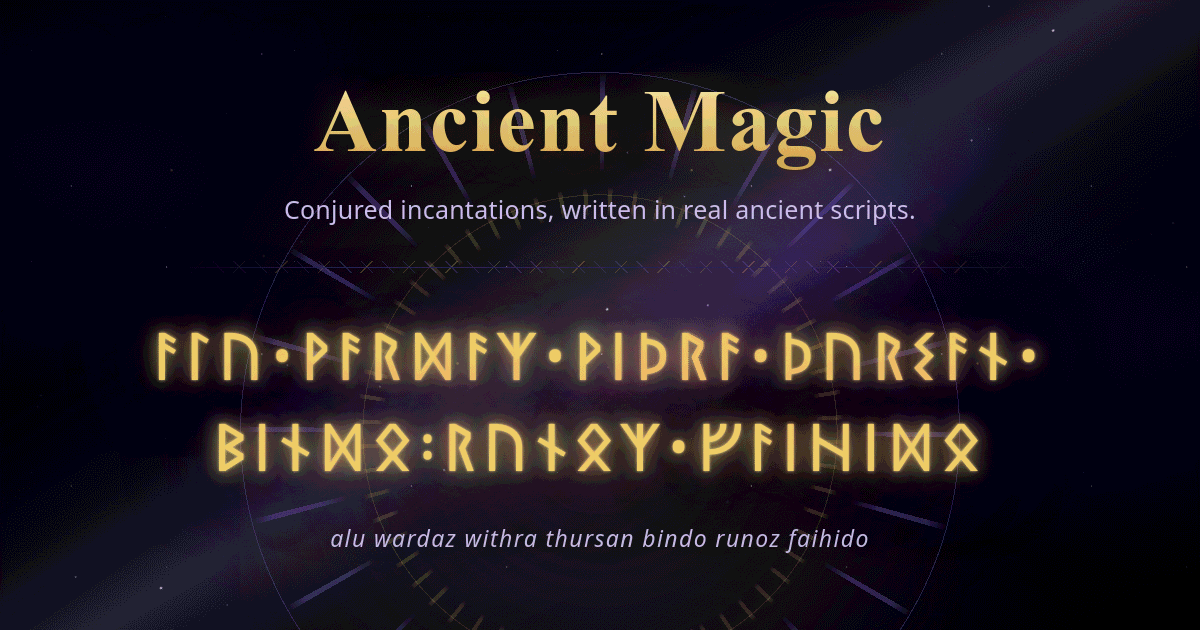
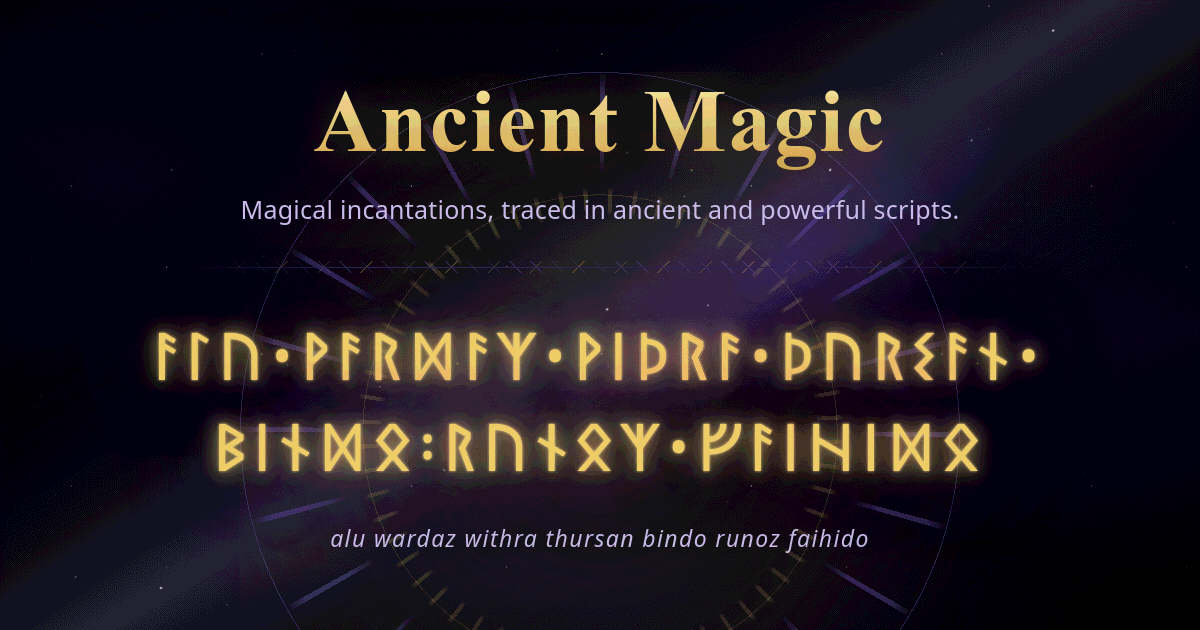
✨ feat: recast the copy in the grimoire voice across languages

Changed region(s): [[0.185, 0.3016, 0.8017, 0.3619]]

diff --git a/pub/fr.html b/pub/fr.html
@@ -3,8 +3,8 @@
 <head>
 <meta charset="utf-8">
 <meta name="viewport" content="width=device-width, initial-scale=1">
-<title>Ancient Magic, des incantations en véritables écritures anciennes</title>
-<meta name="description" content="Choisissez une écriture, une école de magie et une difficulté, puis lisez une incantation fictive tracée en véritables glyphes anciens, avec sa translittération et sa glose.">
+<title>Ancienne Magie, sont les incantations des anciennes écritures</title>
+<meta name="description" content="Choisissez une écriture, une école de magie et un niveau de puissance, prononcez l’incantation tracée des glyphes anciens, avec sa translittération et sa glose.">
 <link rel="canonical" href="https://ancientmagic.iglou.eu/fr.html">
 <link rel="alternate" hreflang="en" href="https://ancientmagic.iglou.eu/">
 <link rel="alternate" hreflang="fr" href="https://ancientmagic.iglou.eu/fr.html">
@@ -13,9 +13,9 @@
 <link rel="alternate" hreflang="x-default" href="https://ancientmagic.iglou.eu/">
 <meta name="theme-color" content="#0B0714">
 
-<meta property="og:site_name" content="Ancient Magic">
-<meta property="og:title" content="Ancient Magic, des incantations en véritables écritures anciennes">
-<meta property="og:description" content="Choisissez une écriture, une école de magie et une difficulté, puis lisez une incantation fictive tracée en véritables glyphes anciens, avec sa translittération et sa glose.">
+<meta property="og:site_name" content="Ancienne Magie">
+<meta property="og:title" content="Ancienne Magie, sont les incantations des anciennes écritures">
+<meta property="og:description" content="Choisissez une écriture, une école de magie et un niveau de puissance, prononcez l’incantation tracée des glyphes anciens, avec sa translittération et sa glose.">
 <meta property="og:type" content="website">
 <meta property="og:url" content="https://ancientmagic.iglou.eu/fr.html">
 <meta property="og:locale" content="fr_FR">
@@ -23,21 +23,21 @@
 <meta property="og:image:width" content="1200">
 <meta property="og:image:height" content="630">
 <meta property="og:image:type" content="image/png">
-<meta property="og:image:alt" content="Le logotype Ancient Magic en or sur un ciel étoilé violet sombre, au-dessus d’une incantation runique lumineuse et de sa translittération.">
+<meta property="og:image:alt" content="Le logotype d’Ancienne Magie en or sur un ciel étoilé violet sombre, au-dessus d’une incantation runique lumineuse et de sa translittération.">
 
 <meta name="twitter:card" content="summary_large_image">
-<meta name="twitter:title" content="Ancient Magic, des incantations en véritables écritures anciennes">
-<meta name="twitter:description" content="Choisissez une écriture, une école de magie et une difficulté, puis lisez une incantation fictive tracée en véritables glyphes anciens, avec sa translittération et sa glose.">
+<meta name="twitter:title" content="Ancienne Magie, sont les incantations des anciennes écritures">
+<meta name="twitter:description" content="Choisissez une écriture, une école de magie et un niveau de puissance, prononcez l’incantation tracée des glyphes anciens, avec sa translittération et sa glose.">
 <meta name="twitter:image" content="https://ancientmagic.iglou.eu/media/og-fr.png">
-<meta name="twitter:image:alt" content="Le logotype Ancient Magic en or sur un ciel étoilé violet sombre, au-dessus d’une incantation runique lumineuse et de sa translittération.">
+<meta name="twitter:image:alt" content="Le logotype d’Ancienne Magie en or sur un ciel étoilé violet sombre, au-dessus d’une incantation runique lumineuse et de sa translittération.">
 
 <script type="application/ld+json">
 {
   "@context": "https://schema.org",
   "@type": "WebApplication",
-  "name": "Ancient Magic",
+  "name": "Ancienne Magie",
   "url": "https://ancientmagic.iglou.eu/fr.html",
-  "description": "Un générateur d’incantations fictives, sur une seule page, tracées en véritables écritures anciennes, avec translittération et glose.",
+  "description": "Des incantations magiques, tracées par les anciennes écritures, avec leur translittération et glose.",
   "applicationCategory": "EntertainmentApplication",
   "operatingSystem": "Tout navigateur web moderne",
   "browserRequirements": "Nécessite JavaScript",
@@ -82,8 +82,8 @@ html { color-scheme: dark; background-color: #171029; }
   </nav>
 
   <header class="site-header">
-    <h1 class="wordmark">Ancient Magic</h1>
-    <p class="promise">Des incantations invoquées, tracées en véritables écritures anciennes.</p>
+    <h1 class="wordmark">Ancienne Magie</h1>
+    <p class="promise">Des incantations magiques, tracées dans d’anciennes et puissantes écritures.</p>
   </header>
 
   <main class="main">
@@ -134,7 +134,7 @@ html { color-scheme: dark; background-color: #171029; }
 
       <div class="field field--difficulty">
         <div class="difficulty-head">
-          <label class="control-label" for="difficulty">Difficulté</label>
+          <label class="control-label" for="difficulty">Puissance</label>
           <span class="difficulty-readout">
             <span class="difficulty-value" id="difficulty-value">5</span>
             <span class="difficulty-tier" id="difficulty-tier">Rite</span>
@@ -164,7 +164,7 @@ html { color-scheme: dark; background-color: #171029; }
     <div class="sigil-band" aria-hidden="true"></div>
 
     <section class="manifestation" aria-labelledby="manifestation-title">
-      <h2 class="eyebrow" id="manifestation-title">La Manifestation</h2>
+      <h2 class="eyebrow" id="manifestation-title">L’Émanation</h2>
 
       <div class="well-stage">
         <div class="magic-circle" aria-hidden="true">
@@ -199,7 +199,7 @@ html { color-scheme: dark; background-color: #171029; }
 
       <p class="visually-hidden" id="copy-status" role="status"></p>
 
-      <p class="print-caption print-only">Runes · Protection · Difficulté 5</p>
+      <p class="print-caption print-only">Runes · Protection · Puissance 5</p>
     </section>
 
     <div class="sigil-band" aria-hidden="true"></div>
@@ -212,7 +212,7 @@ html { color-scheme: dark; background-color: #171029; }
       <span class="footer-sep" aria-hidden="true">·</span>
       <a class="footer-item" href="https://iglou.eu">Source</a>
     </p>
-    <p class="disclaimer">Chaque formule est une fiction générée. Elle ne traduit rien et n’enseigne rien.</p>
+    <p class="disclaimer">Chaque formule générée est fictive, et ne saurait être considérée comme une traduction fiable ou un enseignement.</p>
     <p class="print-url print-only">ancientmagic.iglou.eu</p>
   </footer>
 

diff --git a/pub/index.html b/pub/index.html
@@ -3,8 +3,8 @@
 <head>
 <meta charset="utf-8">
 <meta name="viewport" content="width=device-width, initial-scale=1">
-<title>Ancient Magic, conjured incantations in real ancient scripts</title>
-<meta name="description" content="Pick a script, a school of magic and a difficulty, then read a fictional incantation written in real ancient glyphs, with its transliteration and a plain-language gloss.">
+<title>Ancient Magic, the incantations of the ancient scripts</title>
+<meta name="description" content="Choose a script, a school of magic and a level of power, then pronounce the incantation traced in ancient glyphs, with its transliteration and its gloss.">
 <link rel="canonical" href="https://ancientmagic.iglou.eu/">
 <link rel="alternate" hreflang="en" href="https://ancientmagic.iglou.eu/">
 <link rel="alternate" hreflang="fr" href="https://ancientmagic.iglou.eu/fr.html">
@@ -14,8 +14,8 @@
 <meta name="theme-color" content="#0B0714">
 
 <meta property="og:site_name" content="Ancient Magic">
-<meta property="og:title" content="Ancient Magic, conjured incantations in real ancient scripts">
-<meta property="og:description" content="Pick a script, a school of magic and a difficulty, then read a fictional incantation written in real ancient glyphs, with its transliteration and a plain-language gloss.">
+<meta property="og:title" content="Ancient Magic, the incantations of the ancient scripts">
+<meta property="og:description" content="Choose a script, a school of magic and a level of power, then pronounce the incantation traced in ancient glyphs, with its transliteration and its gloss.">
 <meta property="og:type" content="website">
 <meta property="og:url" content="https://ancientmagic.iglou.eu/">
 <meta property="og:locale" content="en_GB">
@@ -26,8 +26,8 @@
 <meta property="og:image:alt" content="The Ancient Magic wordmark in gold over a dark violet starfield, above a glowing runic incantation and its transliteration.">
 
 <meta name="twitter:card" content="summary_large_image">
-<meta name="twitter:title" content="Ancient Magic, conjured incantations in real ancient scripts">
-<meta name="twitter:description" content="Pick a script, a school of magic and a difficulty, then read a fictional incantation written in real ancient glyphs, with its transliteration and a plain-language gloss.">
+<meta name="twitter:title" content="Ancient Magic, the incantations of the ancient scripts">
+<meta name="twitter:description" content="Choose a script, a school of magic and a level of power, then pronounce the incantation traced in ancient glyphs, with its transliteration and its gloss.">
 <meta name="twitter:image" content="https://ancientmagic.iglou.eu/media/og-en.png">
 <meta name="twitter:image:alt" content="The Ancient Magic wordmark in gold over a dark violet starfield, above a glowing runic incantation and its transliteration.">
 
@@ -37,7 +37,7 @@
   "@type": "WebApplication",
   "name": "Ancient Magic",
   "url": "https://ancientmagic.iglou.eu/",
-  "description": "A single-page generator of fictional incantations written in real ancient scripts, with transliteration and a plain-language gloss.",
+  "description": "Magical incantations, traced by the ancient scripts, with their transliteration and gloss.",
   "applicationCategory": "EntertainmentApplication",
   "operatingSystem": "Any modern web browser",
   "browserRequirements": "Requires JavaScript",
@@ -83,7 +83,7 @@ html { color-scheme: dark; background-color: #171029; }
 
   <header class="site-header">
     <h1 class="wordmark">Ancient Magic</h1>
-    <p class="promise">Conjured incantations, written in real ancient scripts.</p>
+    <p class="promise">Magical incantations, traced in ancient and powerful scripts.</p>
   </header>
 
   <main class="main">
@@ -134,7 +134,7 @@ html { color-scheme: dark; background-color: #171029; }
 
       <div class="field field--difficulty">
         <div class="difficulty-head">
-          <label class="control-label" for="difficulty">Difficulty</label>
+          <label class="control-label" for="difficulty">Power</label>
           <span class="difficulty-readout">
             <span class="difficulty-value" id="difficulty-value">5</span>
             <span class="difficulty-tier" id="difficulty-tier">Rite</span>
@@ -164,7 +164,7 @@ html { color-scheme: dark; background-color: #171029; }
     <div class="sigil-band" aria-hidden="true"></div>
 
     <section class="manifestation" aria-labelledby="manifestation-title">
-      <h2 class="eyebrow" id="manifestation-title">The Manifestation</h2>
+      <h2 class="eyebrow" id="manifestation-title">The Emanation</h2>
 
       <div class="well-stage">
         <div class="magic-circle" aria-hidden="true">
@@ -199,7 +199,7 @@ html { color-scheme: dark; background-color: #171029; }
 
       <p class="visually-hidden" id="copy-status" role="status"></p>
 
-      <p class="print-caption print-only">Runic · Protection · Difficulty 5</p>
+      <p class="print-caption print-only">Runic · Protection · Power 5</p>
     </section>
 
     <div class="sigil-band" aria-hidden="true"></div>
@@ -212,7 +212,7 @@ html { color-scheme: dark; background-color: #171029; }
       <span class="footer-sep" aria-hidden="true">·</span>
       <a class="footer-item" href="https://iglou.eu">Source</a>
     </p>
-    <p class="disclaimer">Every formula here is generated fiction. It translates nothing and teaches nothing.</p>
+    <p class="disclaimer">Every formula generated here is fiction, and is not to be taken for a reliable translation or a teaching.</p>
     <p class="print-url print-only">ancientmagic.iglou.eu</p>
   </footer>
 

diff --git a/tools/render-page.ts b/tools/render-page.ts
@@ -28,6 +28,7 @@ const LANGUAGE_NAME = 'lang.name';
 const SHARED_LABEL = 'common';
 
 const STRAIGHT_QUOTE = '"';
+const STRAIGHT_APOSTROPHE = "'";
 
 // The indent the template gives the switcher list, so a second alternate lines
 // up under the first instead of hanging off the left margin.
@@ -128,6 +129,15 @@ export function assertTypographicQuotes(strings: PageStrings, label: string): vo
   if (offenders.length > 0) {
     throw new Error(
       `${label}: straight double quotes in ${listed(offenders)}, use typographic quotes`,
+    );
+  }
+  // Harmless technically, but typography is a build concern by owner ruling.
+  const apostrophes = Object.keys(strings).filter((key) =>
+    strings[key].includes(STRAIGHT_APOSTROPHE),
+  );
+  if (apostrophes.length > 0) {
+    throw new Error(
+      `${label}: straight apostrophes in ${listed(apostrophes)}, use U+2019`,
     );
   }
 }

diff --git a/tests/page-build.test.ts b/tests/page-build.test.ts
@@ -146,6 +146,22 @@ test('page build: names every value carrying a straight double quote', () => {
   );
 });
 
+// A straight apostrophe breaks nothing technically, only the typography rule.
+// The owner ruled it mechanical: he never wants to proofread for it.
+test('page build: fails on a straight apostrophe in a value', () => {
+  assert.throws(
+    () => assertTypographicQuotes({ 'footer.disclaimer': "l'ancienne magie" }, 'fr'),
+    /^Error: fr: .*footer\.disclaimer.*U\+2019/,
+  );
+});
+
+test('page build: names every value carrying a straight apostrophe', () => {
+  assert.throws(
+    () => assertTypographicQuotes({ a: "l'un", b: 'clean', c: "l'autre" }, 'fr'),
+    /a, c/,
+  );
+});
+
 test('page build: accepts typographic quotes, guillemets and apostrophes', () => {
   assert.doesNotThrow(() =>
     assertTypographicQuotes(

diff --git a/pub/js/strings/fr.js b/pub/js/strings/fr.js
@@ -7,5 +7,5 @@ export const fr = {
     },
     difficultyValueText: (value, tier) => `${value}, ${tier}`,
     glyphLineLabel: (languageLabel) => `Incantation en ${languageLabel}`,
-    printCaption: (languageLabel, schoolLabel, difficulty) => `${languageLabel} · ${schoolLabel} · Difficulté ${difficulty}`,
+    printCaption: (languageLabel, schoolLabel, difficulty) => `${languageLabel} · ${schoolLabel} · Puissance ${difficulty}`,
 };

diff --git a/pub/js/strings/en.js b/pub/js/strings/en.js
@@ -7,5 +7,5 @@ export const en = {
     },
     difficultyValueText: (value, tier) => `${value}, ${tier}`,
     glyphLineLabel: (languageLabel) => `Incantation in ${languageLabel}`,
-    printCaption: (languageLabel, schoolLabel, difficulty) => `${languageLabel} · ${schoolLabel} · Difficulty ${difficulty}`,
+    printCaption: (languageLabel, schoolLabel, difficulty) => `${languageLabel} · ${schoolLabel} · Power ${difficulty}`,
 };

diff --git a/src/ts/strings/fr.ts b/src/ts/strings/fr.ts
@@ -14,5 +14,5 @@ export const fr: UiStrings = {
   glyphLineLabel: (languageLabel) => `Incantation en ${languageLabel}`,
 
   printCaption: (languageLabel, schoolLabel, difficulty) =>
-    `${languageLabel} · ${schoolLabel} · Difficulté ${difficulty}`,
+    `${languageLabel} · ${schoolLabel} · Puissance ${difficulty}`,
 };

diff --git a/src/ts/strings/en.ts b/src/ts/strings/en.ts
@@ -13,5 +13,5 @@ export const en: UiStrings = {
   glyphLineLabel: (languageLabel) => `Incantation in ${languageLabel}`,
 
   printCaption: (languageLabel, schoolLabel, difficulty) =>
-    `${languageLabel} · ${schoolLabel} · Difficulty ${difficulty}`,
+    `${languageLabel} · ${schoolLabel} · Power ${difficulty}`,
 };
